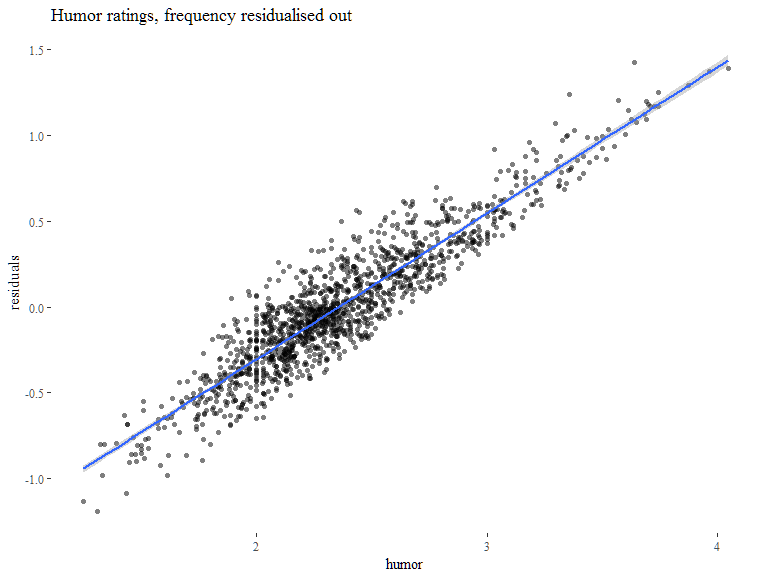
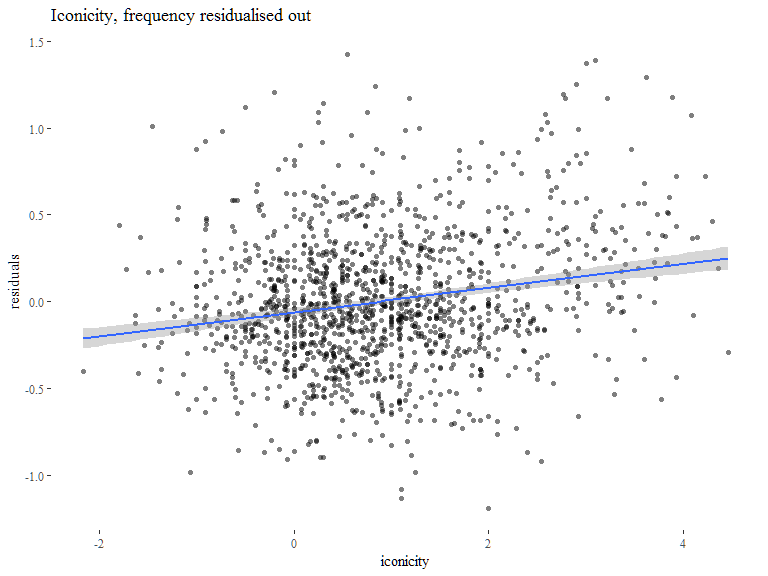
residuals

diff --git a/playful_iconicity.md b/playful_iconicity.md
@@ -1,7 +1,7 @@
 Playful iconicity: relating iconicity and humor ratings for English words
 ================
 Mark Dingemanse
-Updated 2017-08-17
+Updated 2017-08-18
 
 People have feelings about the funniness of words. They can express these feelings in terms of word-level ratings. In a recent set of word-level norms, Engelthaler & Hills 2017 claim that these ratings are "not well predicted by existing norms". The highest correlations they find are between humor ~ frequency and humour ~ lexical decision RT.
 
@@ -231,7 +231,6 @@ df %>%
     ## 13     arch 2.026316  2.500000
     ## 14   scream 1.952381  2.500000
 
-
 Plots
 -----
 
@@ -281,8 +280,6 @@ ggplot(df,aes(humor,iconicity)) +
 
 Let's residualise out `log_freq` so we get a better look at the humor ~ iconicity relation; and conversely, residualise `iconicity` to look at humor ~ frequency.
 
-(Is this at all helpful?)
-
 ``` r
 summary(lm(humor ~ freq_log + iconicity,df))
 ```
@@ -309,8 +306,8 @@ summary(lm(humor ~ freq_log + iconicity,df))
 
 ``` r
 df$residuals <- residuals(lm(humor ~ freq_log,df))
-ggplot(df,aes(humor,residuals)) +
-  theme_tufte() + ggtitle("Humor ratings, frequency residualised out") + 
+ggplot(df,aes(iconicity,residuals)) +
+  theme_tufte() + ggtitle("Iconicity, frequency residualised out") + 
   geom_point(shape=16,alpha=0.5) +
   geom_smooth(method="lm")
 ```
@@ -319,8 +316,8 @@ ggplot(df,aes(humor,residuals)) +
 
 ``` r
 df$residuals <- residuals(lm(humor ~ iconicity,df))
-ggplot(df,aes(humor,residuals)) +
-  theme_tufte() + ggtitle("Humor ratings, iconicity residualised out") + 
+ggplot(df,aes(freq_log,residuals)) +
+  theme_tufte() + ggtitle("Log frequency, iconicity residualised out") + 
   geom_point(shape=16,alpha=0.5) +
   geom_smooth(method="lm")
 ```

diff --git a/README.md b/README.md
@@ -3,8 +3,4 @@ Mark Dingemanse, August 2017
 
 People have feelings about the funniness of words. They can express these feelings in terms of word-level ratings. In a recent set of word-level norms, Engelthaler & Hills 2017 claim that these ratings are "not well predicted by existing norms". The highest correlations they find are between humor ~ frequency and humour ~ lexical decision RT. 
 
-However, humor ratings do not occur in a vacuum: presumably subjects are using some information when judging how funny a word is. Here I examine the relation between humor ratings and iconicity ratings, under a simple prediction: *iconicity ratings will be positively correlated with humor ratings, controlling for frequency* (there are other relevant factors to control for which I skip over in this preliminary analysis).
-
-The theoretical interest here is that people working on iconic words have long drawn attention to their expressive and playful nature. If there is indeed a link between iconicity and the subjective funnyness of words, this solidifies a relationship that has has so far been based mainly on anecdotal observations and studies of relatively small numbers of words.
-
-More details in [playful_iconicity.md](https://github.com/mdingemanse/playful_iconicity/blob/master/playful_iconicity.md). Comments? mark.dingemanse@mpi.nl.
+However, humor ratings do not occur in a vacuum: presumably subjects are using some information when judging how funny a word is. Here I examine the relation between humor ratings and iconicity ratings. More details in [playful_iconicity.md](https://github.com/mdingemanse/playful_iconicity/blob/master/playful_iconicity.md). Comments? mark.dingemanse@mpi.nl.
